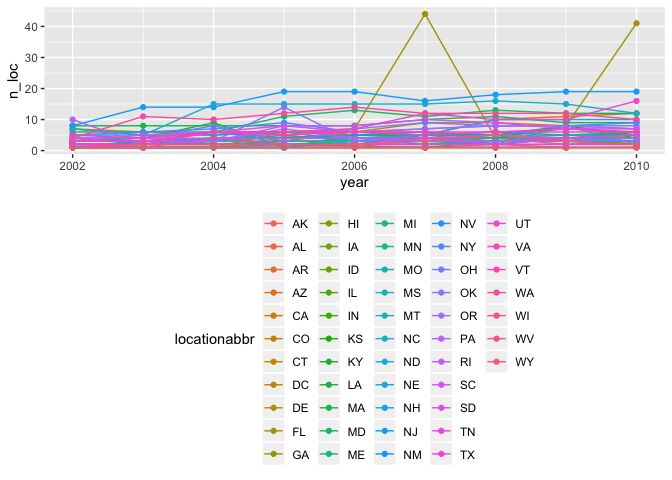
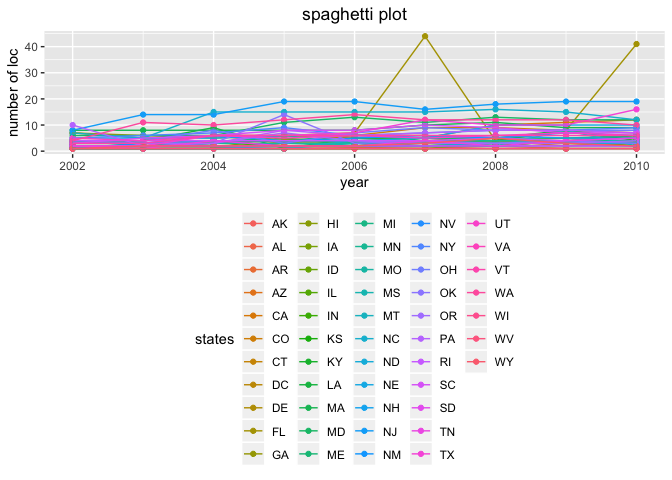
For each year and state, compute the average proportion in each response category (taking the average across locations in a state). Make a five-panel plot that shows, for each response category separately, the distribution of these state-level averages over time.
end of problem1

diff --git a/p8105_hw3_jz3036.md b/p8105_hw3_jz3036.md
@@ -9,14 +9,14 @@ Junyuan Zheng (jz3036)
 library(tidyverse)
 ```
 
-    ## ── Attaching packages ────────────────────────────────────────────────────────── tidyverse 1.2.1 ──
+    ## ── Attaching packages ─────────────────────────────────────────────────────────── tidyverse 1.2.1 ──
 
     ## ✔ ggplot2 3.0.0     ✔ purrr   0.2.5
     ## ✔ tibble  1.4.2     ✔ dplyr   0.7.6
     ## ✔ tidyr   0.8.1     ✔ stringr 1.3.1
     ## ✔ readr   1.1.1     ✔ forcats 0.3.0
 
-    ## ── Conflicts ───────────────────────────────────────────────────────────── tidyverse_conflicts() ──
+    ## ── Conflicts ────────────────────────────────────────────────────────────── tidyverse_conflicts() ──
     ## ✖ dplyr::filter() masks stats::filter()
     ## ✖ dplyr::lag()    masks stats::lag()
 
@@ -72,7 +72,56 @@ data_p1 %>%
   summarize(., n_loc = n_distinct(locationdesc)) %>% 
   ggplot(aes(x = year, y = n_loc, color = locationabbr)) +
     geom_point() + geom_line() + 
-    theme(legend.position = "bottom")
+    theme(legend.position = "bottom", plot.title = element_text(hjust = 0.5)) +
+    labs(y = 'number of loc', color = 'states', title = 'spaghetti plot')
 ```
 
 ![](p8105_hw3_jz3036_files/figure-markdown_github/p1_q2-1.png)
+
+-   Q3 Make a table showing, for the years 2002, 2006, and 2010, the mean and standard deviation of the proportion of “Excellent” responses across locations in NY State.
+
+``` r
+data_p1 %>%
+  filter(., year=='2002' | year=='2006' | year=='2010', response=='Excellent') %>% 
+  group_by(., year) %>% 
+  summarize(., mean = mean(data_value, na.rm = TRUE), SD = sd(data_value, na.rm = TRUE))
+```
+
+    ## # A tibble: 3 x 3
+    ##    year  mean    SD
+    ##   <int> <dbl> <dbl>
+    ## 1  2002  24.0  4.64
+    ## 2  2006  22.4  4.10
+    ## 3  2010  21.5  4.25
+
+-   Q4 For each year and state, compute the average proportion in each response category (taking the average across locations in a state).
+
+``` r
+data_p1_q4_1 = 
+  group_by(data_p1, year, locationabbr) %>% 
+  summarize(., n_loc = n_distinct(locationdesc))
+
+data_p1_q4_2 =
+  group_by(data_p1, year, locationabbr, response) %>%
+  summarize(., mean_sum = sum(data_value))
+
+data_p1_q4 = left_join(data_p1_q4_2, data_p1_q4_1, by = c('year'='year', 'locationabbr'='locationabbr'))
+
+data_p1_q4 = mutate(data_p1_q4, avg_prop = mean_sum/n_loc)
+```
+
+-   Make a five-panel plot that shows, for each response category separately, the distribution of these state-level averages over time.
+
+``` r
+ggplot(data_p1_q4, aes(x = year, y = avg_prop, color = locationabbr)) +
+    geom_point() + geom_line() +
+    facet_grid(. ~ response) +
+    theme(legend.position = "bottom", plot.title = element_text(hjust = 0.5)) +
+    labs(y = 'avg_prop', color = 'states', title = 'state-level averages over time')
+```
+
+    ## Warning: Removed 21 rows containing missing values (geom_point).
+
+    ## Warning: Removed 1 rows containing missing values (geom_path).
+
+![](p8105_hw3_jz3036_files/figure-markdown_github/p1_q4_2-1.png)
